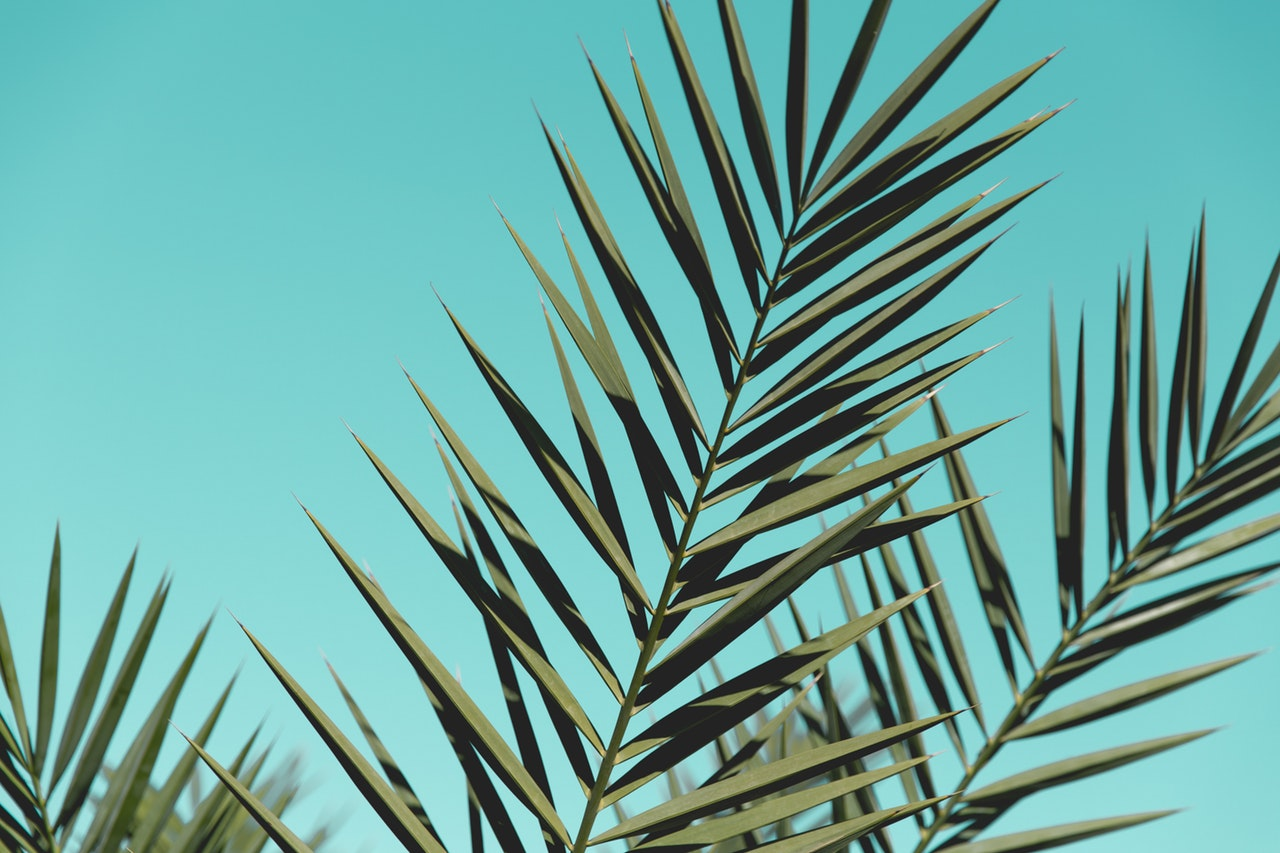
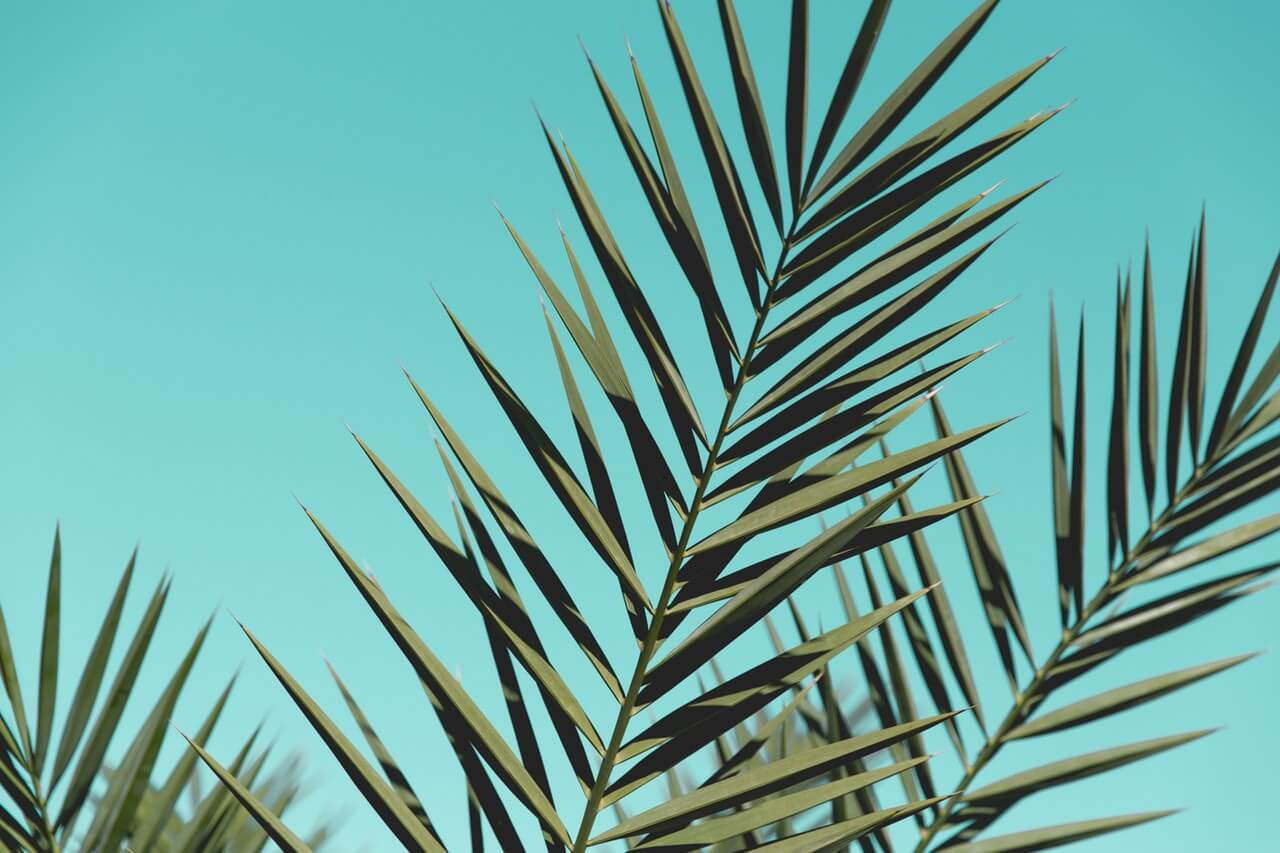
compressed images

diff --git a/03 -Update CSS with JS/style.css b/03 -Update CSS with JS/style.css
@@ -1,12 +1,12 @@
 :root {
-  --base:#ffc600;
-  --spacing:10px;
-  --blur:3px;
+  --base:#87816c;
+  --spacing:20px;
+  --blur:2px;
 }
 
 img {
   padding: var(--spacing);
-  width: 80%;
+  width: 50%;
   background: var(--base);
   filter: blur(var(--blur));
 } 
@@ -19,19 +19,18 @@ body {
   text-align: center;
   color: white;
   background: #193549;
-  font-weight: 100;
-  font-size: 30px;
+  font-size: 1.4rem;
   font-family: 'Montserrat', sans-serif;
 }
 
 label {
-  font-size: 25px;
+  font-size: 1.2rem;
 }
 
 .controls {
-  margin-bottom: 50px;
+  margin-bottom: 2rem;
 }
 
 input {
-  width: 100px;
+  width: 10rem;
 }
